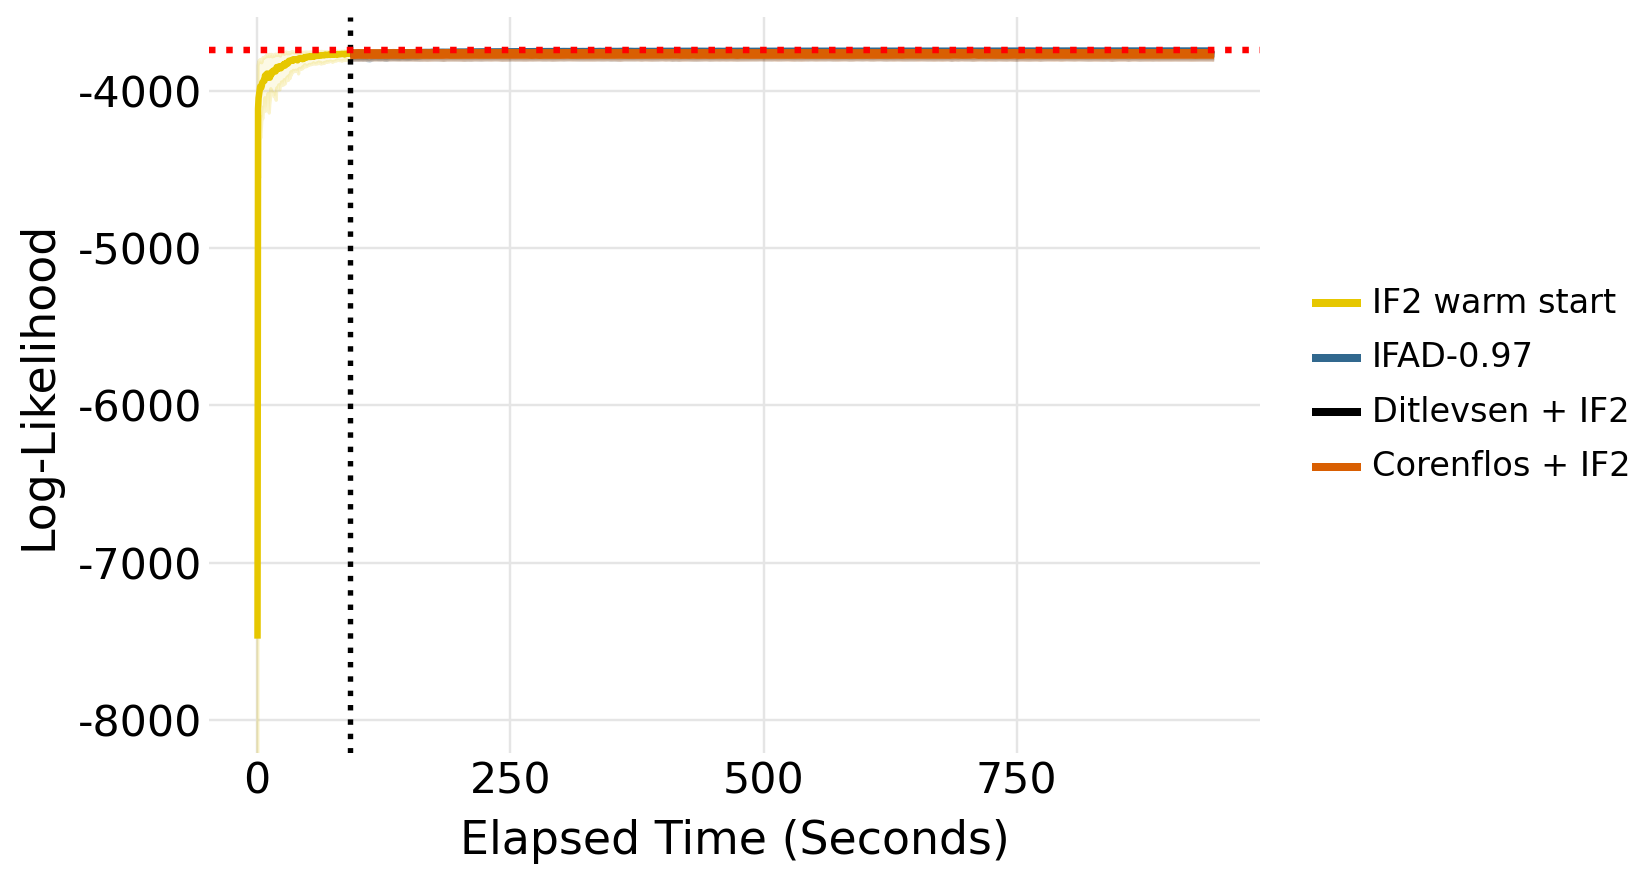
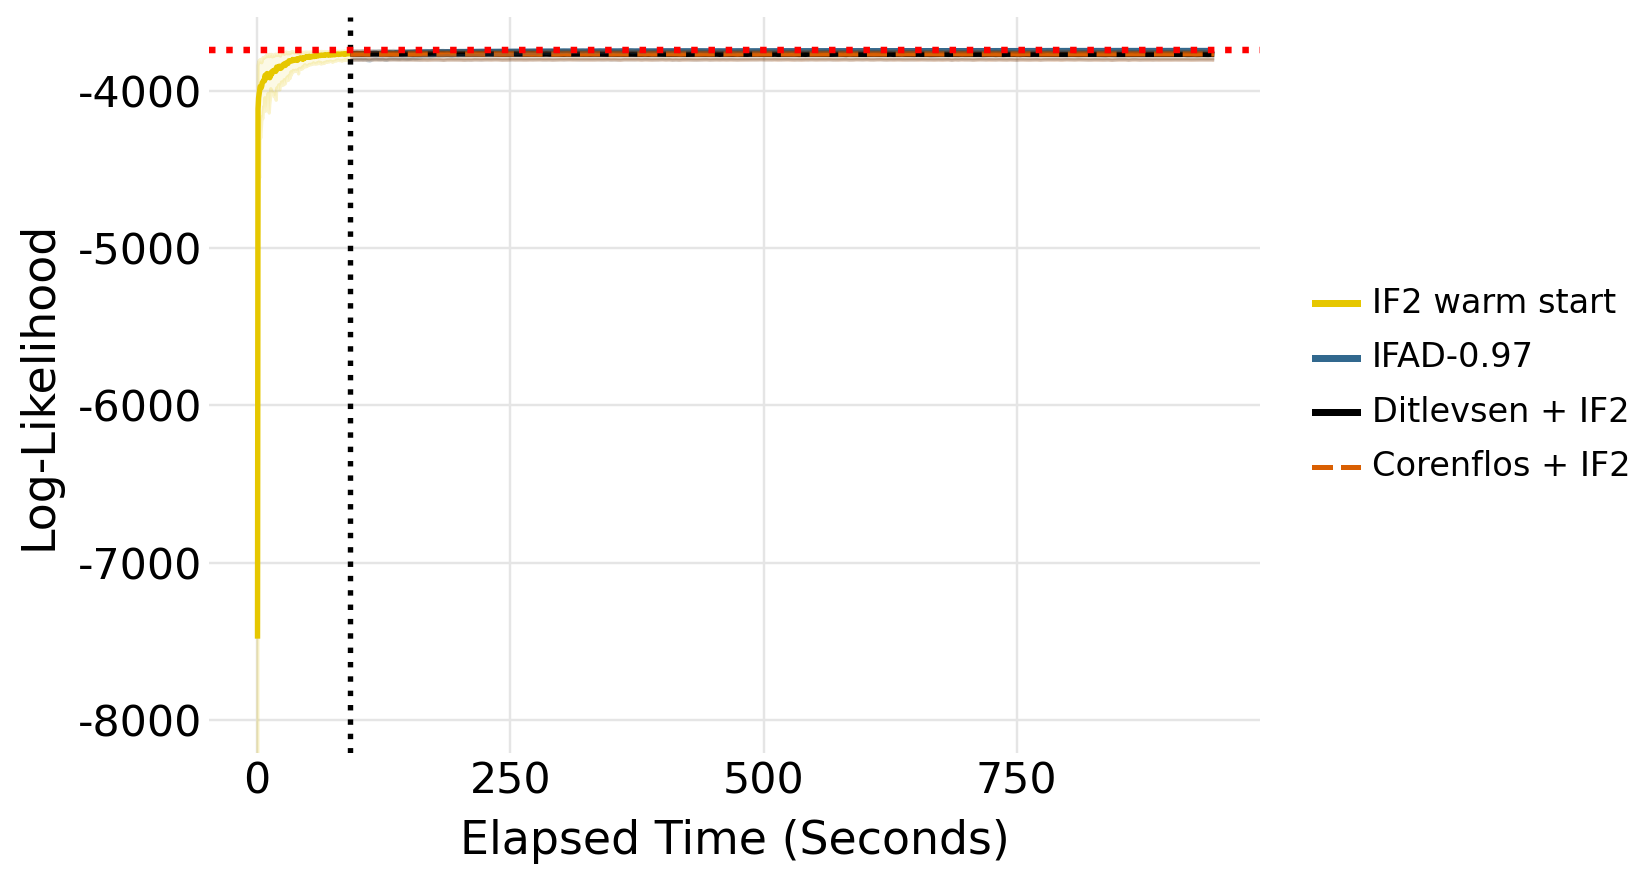
zoom warm-start traces

Changed region(s): [[0.2164, 0.0307, 0.7418, 0.092], [0.8036, 0.5216, 0.8345, 0.5523]]

diff --git a/corenflos/corenflos/warm_plots.py b/corenflos/corenflos/warm_plots.py
@@ -31,6 +31,7 @@ from plotnine import (
     labs,
     scale_color_manual,
     scale_fill_manual,
+    scale_linetype_manual,
     scale_x_continuous,
     scale_y_continuous,
     theme,
@@ -45,6 +46,8 @@ from .plots import BEST_KNOWN, PARAMETER_LABELS, PARAMETERS, _trace_summary
 
 OFFSET = 92.16042757034302
 TOTAL = 942.8173823356628
+# The continuation medians and envelopes span approximately -3814 to -3741.
+TRACE_LIMITS = (-3820.0, -3735.0)
 METHODS = [
     "Corenflos",
     "Corenflos + IF2",
@@ -280,7 +283,8 @@ def _optimization_frame(args: argparse.Namespace) -> pd.DataFrame:
 def plot_optimization(frame: pd.DataFrame, output: Path) -> None:
     order = ["IF2 warm start", "IFAD-0.97", "Ditlevsen + IF2", "Corenflos + IF2"]
     frame["source"] = pd.Categorical(frame["source"], categories=order, ordered=True)
-    corenflos = frame.loc[frame["source"].eq("Corenflos + IF2")]
+    linetypes = {source: "solid" for source in order}
+    linetypes["Corenflos + IF2"] = "dashed"
     plot = (
         ggplot(frame, aes(x="elapsed_seconds", y="median", color="source"))
         + geom_ribbon(
@@ -289,15 +293,9 @@ def plot_optimization(frame: pd.DataFrame, output: Path) -> None:
             color=None,
             show_legend=False,
         )
-        + geom_line(size=1.2)
+        + geom_line(aes(linetype="source"), size=1.0)
         + geom_line(aes(y="q10"), alpha=0.2, size=0.6, show_legend=False)
         + geom_line(aes(y="maximum"), alpha=0.2, size=0.6, show_legend=False)
-        + geom_line(
-            data=corenflos,
-            color=COLORS["Corenflos + IF2"],
-            size=1.8,
-            show_legend=False,
-        )
         + geom_vline(xintercept=OFFSET, color="black", linetype="dotted", size=1.0)
         + geom_hline(
             yintercept=BEST_KNOWN,
@@ -307,6 +305,7 @@ def plot_optimization(frame: pd.DataFrame, output: Path) -> None:
         )
         + scale_color_manual(values=COLORS, breaks=order)
         + scale_fill_manual(values=COLORS, breaks=order)
+        + scale_linetype_manual(values=linetypes, breaks=order)
         + labs(x="Elapsed Time (Seconds)", y="Log-Likelihood")
         + theme_minimal()
         + theme(
@@ -321,7 +320,11 @@ def plot_optimization(frame: pd.DataFrame, output: Path) -> None:
             panel_grid_minor=element_blank(),
         )
     )
-    (plot + coord_cartesian(xlim=(0, TOTAL), ylim=(-4300.0, None))).save(
+    (
+        plot
+        + scale_y_continuous(breaks=list(range(-3820, -3734, 10)))
+        + coord_cartesian(xlim=(0, TOTAL), ylim=TRACE_LIMITS)
+    ).save(
         output / "optimization_if2warm_elapsed_r20.png",
         width=7.5,
         height=4.0,

diff --git a/HANDOFF.md b/HANDOFF.md
@@ -1,5 +1,19 @@
 # Handoff
 
+## October 1, 2026: make continuation traces readable
+
+- Corrected the main warm-start optimization figure's log-likelihood limits
+  from a -4300 lower bound to -3820 through -3735, with ticks every 10 units.
+  The old scale compressed the continuation traces into a thin strip; the
+  initial September 26 visual inspection missed this readability problem.
+- Used a dashed Corenflos median and removed its extra thick overlaid line,
+  so the nearby Ditlevsen median remains visible. Regenerated both optimization
+  PNGs; the full-range figure retains its overview scale.
+- Checked the regenerated main PNG visually and confirmed that all median,
+  10th-percentile, and maximum values after the IF2 checkpoint fit inside the
+  focused limits. The completion audit still passes; experimental results,
+  likelihood comparison, and parameter figures are unchanged.
+
 ## September 28, 2026: Daphnia references in the main text
 
 - Added the approved Daphnia sentences to the Introduction and Discussion,
